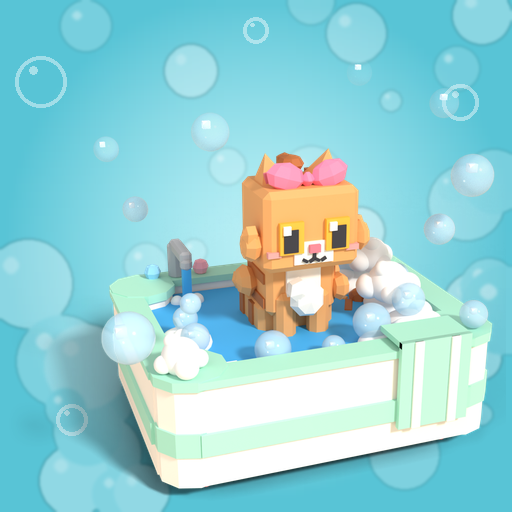
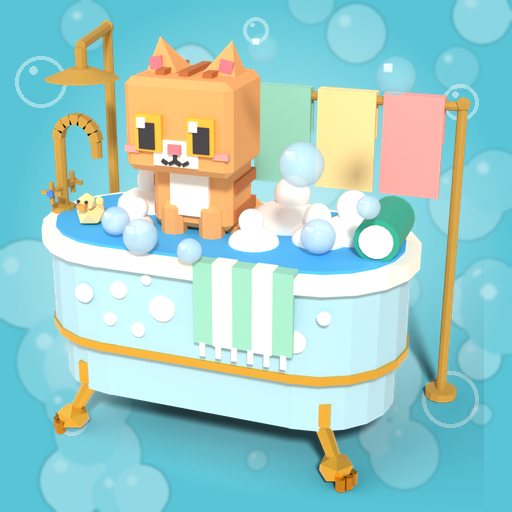
Store thumbnail: the ad picture's bath, blown up, with a plain cat (#116)
Derek: "the cat with ears looks weird and the towel and stuff from the
original ad picture in tub looked better try that just blown up".

thumb-spa now builds a store-art-only claw-foot bath ported from Derek's
own Bathtub Sofa in his asset library: the sky blue tub with a gold band,
the brass tap and rain shower, the duck and the striped towel, with three
towels on a brass rail and a rolled towel on the rim. A plain clean Muffin
sits in lather and soap bubbles. The bath fills more of the frame. The
icon is the same shot. Nothing is exported or uploaded.

Claude-Session: https://claude.ai/code/session_01DW2up3E6M21fYJtCcCtEdr

diff --git a/assets/clean-a-cat/blender/store_art.py b/assets/clean-a-cat/blender/store_art.py
@@ -29,7 +29,7 @@ import cats  # noqa: E402
 import spa_props  # noqa: E402
 import stations  # noqa: E402
 import tools  # noqa: E402
-from common import Builder  # noqa: E402
+from common import RB, Builder  # noqa: E402
 
 TUB_K = 1.5                       # the cat's ScaleTo at the tub
 stations.DETAIL = {"ball": (24, 14), "mound": (24, 10)}   # a close picture: round balls, as Roblox draws them
@@ -261,38 +261,151 @@ def icon_clean(mat, out, res):
     return render(objs, focus, out, res, az=-10, el=14, margin=1.14, lens=55)
 
 
+# ------------------------------------------------------------------ the claw-foot bath (store art only)
+# Derek's own Bathtub Sofa from his asset library (Roblox-Asset-Library, crate_decor.build_bathtub_sofa), the tub of
+# the ad picture he picked as the look (2026-11-23), filled as a bath: the same sky blue tub with a gold band,
+# painted bubbles, a rolled white rim and gold claw feet, the brass tap, the rain shower, the rubber duck and the
+# striped towel over the front. Its three cushions hang as towels on a brass rail behind and its bolster is a
+# rolled towel on the rim. Roblox axes (RB): x across, y up, -z the front.
+BATH_K = 1.3                      # the tub drawn this much bigger, so a 1.5 times cat sits in it with room
+BATH_CX, BATH_RIM, BATH_WATER = 0.9, 1.96, 1.99
+
+
+def _stadium(b, cx, y0, y1, r, sw, segments=20):
+    """A tub-shaped slab from y0 to y1: a box between two round ends centred at x = +-cx. The box keeps a hair
+    inside the ends all round, so no two faces share a plane."""
+    b.span((-cx, y0 + 0.002, -r + 0.003), (cx, y1 - 0.002, r - 0.003), sw)
+    for sx in (-1, 1):
+        b.cyl((sx * cx, (y0 + y1) / 2, 0), r, y1 - y0, sw, segments=segments)
+
+
+def _limb(b, p0, p1, r0, r1, sw, segments=8):
+    a, c = Vector(p0), Vector(p1)
+    d = c - a
+    turn = Vector((0, 1, 0)).rotation_difference(d.normalized()).to_matrix()
+    b.b.cyl(RB.p(*((a + c) / 2)), r0, d.length, sw, segments=segments, bevel=False, rot=RB._rot(turn), radius2=r1)
+
+
+def _arc(b, cx, cy, z, r, a0, a1, n, w, d, sw):
+    step = math.radians(abs(a1 - a0) / n)
+    length = 2 * r * math.sin(step / 2) * 1.06
+    for k in range(n):
+        t = math.radians(a0 + (a1 - a0) * (k + 0.5) / n)
+        b.box((cx + r * math.cos(t), cy + r * math.sin(t), z), (length, w, d), sw,
+              rot=Matrix.Rotation(t + math.pi / 2, 3, "Z"))
+
+
+def _rubber_duck(b, x, y, z, s, sw):
+    """A rubber duck sitting on y, looking toward -Z."""
+    b.ball((x, y + 0.2 * s, z + 0.03 * s), 0.27 * s, sw, scale=(1.0, 0.75, 1.2))
+    b.ball((x, y + 0.46 * s, z - 0.12 * s), 0.17 * s, sw)
+    b.box((x, y + 0.43 * s, z - 0.3 * s), (0.15 * s, 0.06 * s, 0.12 * s), "fur_orange")
+    for sx in (-1, 1):
+        b.cyl((x + sx * 0.075 * s, y + 0.51 * s, z - 0.28 * s), 0.03 * s, 0.03 * s, "fur_black", axis="Z", segments=6)
+    b.ball((x, y + 0.33 * s, z + 0.33 * s), 0.08 * s, sw, scale=(1.0, 1.3, 1.0))
+
+
+def _hung(b, x0, x1, rail_y, z, drop, sw, stripes=None):
+    """A towel folded over a rail or a rim at height rail_y and depth z: a long front fall and a short back one."""
+    b.span((x0, rail_y, z - 0.07), (x1, rail_y + 0.04, z + 0.07), sw)
+    b.span((x0, rail_y - drop, z - 0.07), (x1, rail_y, z - 0.03), sw)
+    b.span((x0, rail_y - drop * 0.45, z + 0.03), (x1, rail_y, z + 0.07), sw)
+    for k in (stripes or ()):
+        a, c = x0 + (x1 - x0) * k / 5, x0 + (x1 - x0) * (k + 1) / 5
+        b.span((a, rail_y - drop - 0.004, z - 0.078), (c, rail_y + 0.035, z - 0.03), "offwhite")
+        b.span((a, rail_y + 0.035, z - 0.078), (c, rail_y + 0.048, z + 0.078), "offwhite")
+
+
+def clawfoot_bath(mat):
+    """The bath of the ad picture, scaled by BATH_K: (objects, the water's height in studs)."""
+    b, wat, duck = RB(), RB(), RB()
+    CX = BATH_CX
+    _stadium(b, CX, 0.45, 1.0, 0.76, "pastel_sky")                                       # the tub, flaring out
+    _stadium(b, CX, 0.98, 1.84, 0.85, "pastel_sky")
+    _stadium(b, CX, 0.96, 1.04, 0.87, "gold_mid")                                         # a gold band at the flare
+    _stadium(b, CX, 1.82, BATH_RIM, 0.93, "offwhite")                                     # the rolled rim
+    for k, (x, y, r) in enumerate(((0.28, 1.48, 0.12), (0.52, 1.24, 0.07), (0.7, 1.6, 0.08), (0.42, 1.74, 0.05),
+                                   (0.8, 1.3, 0.06), (1.05, 1.52, 0.09), (-0.95, 1.36, 0.1), (-1.2, 1.62, 0.06))):
+        b.cyl((x, y, -0.86), r, 0.03, ("offwhite", "fish_belly")[k % 2], axis="Z", segments=16)   # painted bubbles
+    for sx in (-1, 1):                                                                     # claw feet
+        for sz in (-1, 1):
+            b.span((sx * 1.12 - 0.12, 0.5, sz * 0.62 - 0.1), (sx * 1.12 + 0.12, 0.72, sz * 0.62 + 0.1), "gold_mid")
+            _limb(b, (sx * 1.12, 0.55, sz * 0.62), (sx * 1.3, 0.2, sz * 0.72), 0.08, 0.06, "gold_mid")
+            b.ball((sx * 1.32, 0.13, sz * 0.74), 0.15, "gold_mid", scale=(1.15, 0.9, 1.15))
+            for k in (-1, 0, 1):                                                           # three toes
+                a = math.atan2(sz * 0.74, sx * 1.32) + 0.5 * k
+                b.cyl((sx * 1.32 + 0.15 * math.cos(a), 0.06, sz * 0.74 + 0.15 * math.sin(a)), 0.05, 0.12,
+                      "gold_dark", segments=6)
+    _stadium(wat, CX, BATH_RIM - 0.02, BATH_WATER, 0.79, "water")                         # full to the brim
+    _hung(b, -0.95, -0.05, BATH_RIM, -0.86, 0.72, "mint", stripes=(1, 3))                 # the striped towel
+    for k in range(6):                                                                    # its fringe
+        x = -0.95 + 0.08 + k * (0.9 - 0.16) / 5
+        b.span((x - 0.025, BATH_RIM - 0.84, -0.935), (x + 0.025, BATH_RIM - 0.71, -0.915), "offwhite")
+    b.cyl((-1.5, BATH_RIM + 0.2, 0.0), 0.2, 0.7, "sign_teal", axis="Z", segments=16)      # a rolled towel on the rim
+    for sz in (-1, 1):
+        b.cyl((-1.5, BATH_RIM + 0.2, sz * 0.36), 0.15, 0.02, "offwhite", axis="Z", segments=16)
+    # the brass gooseneck tap on the rim and its two handles
+    tx = 1.72
+    b.cyl((tx, 1.99, 0), 0.12, 0.06, "brass", segments=12)
+    b.cyl((tx, 2.35, 0), 0.06, 0.72, "brass", segments=10)
+    _arc(b, tx - 0.2, 2.7, 0, 0.2, 0, 180, 7, 0.1, 0.1, "brass")
+    b.cyl((tx - 0.4, 2.62, 0), 0.055, 0.16, "brass", segments=10)
+    for sz, cap in ((-1, "shirt_blue"), (1, "shirt_red")):
+        b.cyl((tx, 2.2, sz * 0.12), 0.04, 0.14, "brass", axis="Z", segments=6)
+        b.box((tx, 2.2, sz * 0.2), (0.22, 0.04, 0.04), "brass")
+        b.box((tx, 2.2, sz * 0.2), (0.04, 0.22, 0.04), "brass")
+        b.cyl((tx, 2.2, sz * 0.23), 0.04, 0.03, cap, axis="Z", segments=6)
+    # the rain shower: a brass stand behind the tap end, its rose over the bath
+    lx, lz = 1.7, 1.05
+    b.cyl((lx, 0.04, lz), 0.2, 0.08, "brass", segments=12)
+    top = 3.62                                                                            # shorter than the sofa's lamp
+    b.cyl((lx, top / 2 + 0.02, lz), 0.055, top - 0.04, "brass", segments=10)
+    b.ball((lx, top, lz), 0.08, "brass")
+    _limb(b, (lx, top, lz), (1.5, top - 0.04, 0.12), 0.055, 0.05, "brass")
+    b.cyl((1.5, top - 0.16, 0.12), 0.06, 0.2, "brass", segments=10)
+    b.cyl((1.5, top - 0.3, 0.12), 0.36, 0.1, "brass", r2=0.12, segments=20)
+    # a brass towel rail behind the tub with three towels (the ad picture's cushions)
+    ry, rz = 3.05, 1.12
+    for x in (0.3, -1.95):
+        b.cyl((x, 0.04, rz), 0.16, 0.08, "brass", segments=12)
+        b.cyl((x, ry / 2, rz), 0.05, ry, "brass", segments=10)
+        b.ball((x, ry + 0.02, rz), 0.08, "brass")
+    b.cyl((-0.825, ry, rz), 0.045, 2.25, "brass", axis="X", segments=10)
+    for x, sw in ((-0.2, "mint"), (-0.85, "pastel_butter"), (-1.5, "blush")):
+        _hung(b, x - 0.29, x + 0.29, ry + 0.045, rz, 0.95, sw)
+    _rubber_duck(duck, 0, 0, 0, 0.55, "pastel_butter")
+    objs = [b.finalize("StoreBath", mat), wat.finalize("StoreBath_Water", mat),
+            duck.finalize("StoreBath_Duck", mat, location=(1.25, BATH_WATER - 0.03, -0.3))]
+    for o in objs:
+        common.scale_mesh(o, BATH_K)
+        o.location = o.location * BATH_K
+    return _fresh(objs), BATH_WATER * BATH_K
+
+
 def thumb_spa(mat, out, res):
-    """The store thumbnail Derek picked the look of (2026-11-23): the whole tub, a clean fluffy Muffin with a bow in a
-    pile of foam, a striped towel over the rim, the sponge on the rim and bubbles rising. No mud."""
-    objs, cat, tub = tub_scene(mat, name="Muffin", state="clean", with_sponge=False, foam=False)
-    spec = cats.ROSTER["Muffin"]
-    k = cats.scale_of(spec, "sit")
-    bow = props.build_bow(list(props.BOWS)[0], mat)
-    at = Vector(cats.joints(spec, "sit")["Head"]) + Vector(cats.bow_at(spec, "sit")) * k
-    _move(bow, Vector((0, 0, stations.SEAT_Z)) + at * TUB_K, TUB_K)
-    objs += _fresh(bow)
+    """The store thumbnail (Derek 2026-11-23): the bath of his ad picture, blown up, with a clean Muffin sitting in
+    it: the claw-foot tub, the striped towel over the rim, towels on a rail, the duck, lather and soap bubbles. The
+    cat is plain (no fluff, no bow), so its ears and face read at a glance. No mud."""
+    tub, wz = clawfoot_bath(mat)
+    cx = -0.3                                             # the cat sits left of the middle, as in the ad picture
+    cat = cat_state("Muffin", mat, "sit", "plain", (cx, 0.12, wz - 0.48), TUB_K)
+    objs = tub + cat
     lo, hi = common.bounds(cat)
-    tlo, thi = common.bounds(tub)
-    top = stations.SEAT_Z + 0.9
-    # lather hugging the cat's sides and back, the water left open in front of it
-    objs += bubbles(mat, [(1.3, lo.y + 0.5, top, 0.5), (1.5, 0.55, top + 0.05, 0.45)], seed=11)
-    wz = stations.WATER_Z
-    objs += floating(mat, [(-0.7, lo.y - 0.3, wz + 0.2, 0.24), (0.1, lo.y - 0.4, wz + 0.14, 0.16),      # on the water
-                           (0.75, lo.y - 0.15, wz + 0.3, 0.26), (-1.55, -0.6, wz + 0.2, 0.2),
-                           (-2.6, lo.y - 0.9, hi.z - 1.6, 0.3), (2.1, lo.y - 0.2, hi.z - 0.3, 0.28),    # drifting up
-                           (1.5, lo.y - 0.4, hi.z + 0.7, 0.18), (-1.4, lo.y - 0.2, hi.z + 0.5, 0.22),
-                           (0.4, lo.y - 0.3, hi.z + 1.1, 0.15), (-2.4, 0.2, hi.z + 0.1, 0.16)])
-    rim = stations.RIM_Z + 0.14                           # the top of the rim's cap
-    tw = Builder()                                        # a mint towel with white stripes over the front rim
-    x, w = 1.25, 1.0
-    tw.box((x, tlo.y + 0.25, rim + 0.05), (w, 0.62, 0.08), "spa_mint", bevel=False)
-    tw.box((x, tlo.y - 0.03, rim - 0.52), (w, 0.08, 1.22), "spa_mint", bevel=False)
-    for dx in (-0.26, 0.26):
-        tw.box((x + dx, tlo.y - 0.08, rim - 0.52), (0.12, 0.04, 1.22), "offwhite", bevel=False)
-    objs += _fresh([tw.finalize("Towel", mat, bevel=0)])
-    objs += bubbles(mat, [(tlo.x + 0.4, tlo.y + 0.4, rim + 0.2, 0.4)], seed=13)
-    focus = cat + [o for o in tub if not o.name.endswith("_Bubbles")]     # the drifting bubbles may leave the frame
-    return render(objs, focus, out, res, az=-20, el=21, margin=1.1, lens=55)
+    fm = Builder()                                        # lather round the cat, the water open in front of it
+    for x, y, r in ((cx - 0.95, 0.45, 0.4), (cx + 0.95, 0.4, 0.46), (cx + 0.8, -0.4, 0.3), (cx - 0.8, -0.35, 0.28),
+                    (1.55, 0.25, 0.42), (cx + 1.5, -0.05, 0.34)):
+        stations.foam_mound(fm, x, y, wz - 0.02, r)
+    for x, y, z, r in ((cx - 0.9, 0.5, 0.2, 0.2), (cx + 1.0, 0.45, 0.22, 0.22), (cx + 0.75, -0.35, 0.14, 0.15),
+                       (1.5, 0.3, 0.2, 0.2), (cx + 1.45, 0.0, 0.16, 0.16), (cx - 0.72, -0.32, 0.14, 0.13)):
+        stations.foam_bubble(fm, x, y, wz + z, r)
+    objs += _fresh([common.shade_smooth(fm.finalize("Foam", mat, bevel=0))])
+    objs += floating(mat, [(cx - 0.3, lo.y - 0.28, wz + 0.2, 0.2), (cx + 0.35, lo.y - 0.4, wz + 0.15, 0.14),      # on the water
+                           (-1.1, -0.75, wz + 0.2, 0.17), (1.3, -0.5, wz + 0.22, 0.2),
+                           (cx + 1.55, lo.y - 0.2, hi.z - 1.1, 0.24),   # drifting up
+                           (cx + 1.15, lo.y - 0.3, hi.z + 0.1, 0.15), (2.1, -0.6, hi.z - 0.2, 0.2),
+                           (1.9, -0.7, hi.z - 1.6, 0.13)])
+    focus = [o for o in objs if "Bubbles" not in o.name]     # the drifting bubbles may leave the frame
+    return render(objs, focus, out, res, az=20, el=20, margin=1.06, lens=55)
 
 
 def thumb_scrub(mat, out, res):

diff --git a/assets/clean-a-cat/blender/store_compose.py b/assets/clean-a-cat/blender/store_compose.py
@@ -290,8 +290,8 @@ def compose_spa(raw_dir, final=False):
     w, h = size
     bg = bubble_backdrop(size)
     art = soft_shadow_edges(crop_to_content(Image.open(os.path.join(raw_dir, "raw-thumb-spa.png")).convert("RGBA")))
-    art = fit(art, w * 0.58, h * 0.97)
-    bg.alpha_composite(art, (int(w * 0.985 - art.width), int(h * 0.99 - art.height)))
+    art = fit(art, w * 0.6, h * 0.97)                     # the bath as big as the frame allows (Derek: "blown up")
+    bg.alpha_composite(art, (int(w * 0.99 - art.width), int(h * 0.99 - art.height)))
     title = title_block(int(w * 0.44))
     title = fit(title, w * 0.47, h * 0.9)
     bg.alpha_composite(title, (int(w * 0.235 - title.width / 2), int(h * 0.5 - title.height / 2)))

diff --git a/docs/concepts/clean-a-cat/README.md b/docs/concepts/clean-a-cat/README.md
@@ -32,7 +32,7 @@ HUD source page: `assets/clean-a-cat/ui/hud.html`. Plans: issues #5 (first sessi
 - `2026-11-23-store-art-draft.png`: the store art draft for Derek's pick (#24). It has three icons (A the scrub, B the whole cat with CLEAN A CAT, C clean and fluffy) and three thumbnails (scrubbing at the tub and muddy to fluffy, both with CLEAN A CAT, and your spa at work). The only words are the game's name. Each is shown at 150 px, and each icon also at 48 px. Common cats only. 2026-11-23.
 - `2026-11-23-plot-real-street.png`, `-window.png`, `-entrance.png`, `-player.png` and `-top.png`: the real spa plot (#15), dressed as in the graybox shots, from the same five spots. It has a bubblegum shop front under a striped awning, a flower box and plants outside, a checked floor with a rug under the tub, lamps, a towel shelf, a clock and a paw poster inside, and a grassy fenced yard behind. Roof hidden in the top, player and entrance shots. 2026-11-23.
 - `2026-11-23-street-wide.png` and `2026-11-23-street-pavement.png`: the street (#15) with six empty plots 44 studs apart, from above the road and from the pavement. It shows the road, the far pavement with pastel town houses, and the hedge and trees behind. 2026-11-23.
-- `2026-11-24-store-thumbnail.png` (1920 x 1080) and `2026-11-24-store-icon.png` (512): the store art Derek picked for now, in the look of his reference. The thumbnail has a chunky stacked CLEAN A CAT title in lilac and pink with a purple outline over a teal bubble backdrop, with a clean, fluffy Muffin in the tub on the right, in deep blue water with the tap running, white lather and clear soap bubbles (#111). The icon is the same tub shot with no words. No mud. These are placeholders until the design is locked. 2026-11-24.
+- `2026-11-24-store-thumbnail.png` (1920 x 1080) and `2026-11-24-store-icon.png` (512): the store art Derek picked for now, in the look of his reference. The thumbnail has a chunky stacked CLEAN A CAT title in lilac and pink with a purple outline over a teal bubble backdrop. On the right is the bath of his ad picture, as big as the frame allows (#116): his own Bathtub Sofa from the asset library filled as a bath, a sky blue claw-foot tub with a gold band, the brass tap and rain shower, the rubber duck, the striped towel over the rim, three towels on a brass rail and a rolled towel, with a plain clean Muffin sitting in lather and soap bubbles. The icon is the same shot with no words. No mud. The tub is store art only and is not the game's wash tub. These are placeholders until the design is locked. 2026-11-24.
 - `2026-11-24-mud-foam-before-after.png`: the mud and foam remodel (#107) as close-ups, before above after. Mud went from squashed balls to flat pixel splats fitted to each fur face, in two shades with a drip. Foam went from loose faceted puffs to tidy piles of round bubbles. The store thumbnail and icon above were rendered again with the new foam. 2026-11-24.
 - `2026-11-24-baths-mud-before-after.png`: the second pass on mud and baths (#111), before above after. Mud went from raised blocks to thin smears turned off the cat's straight lines. The baths got deep blue water to just under the rim, a running tap on the tub and clear soap bubbles with a white glint on low white lather. The store thumbnail and icon, the tub scene and the station pictures above were rendered again with this look. 2026-11-24.
 - `2026-11-24-mud-coat-before-after.png`: the third pass on mud (#113), before above after and from behind. Mud went from smears laid on the fur to a coat built into it: pieces that wrap the cat's own blocks, flush like its stripes. The tub scene, the customers sheet and the dirty cat previews were rendered again with this look. 2026-11-24.

diff --git a/assets/clean-a-cat/blender/README.md b/assets/clean-a-cat/blender/README.md
@@ -38,7 +38,7 @@ Flags: `--only Smudge,Tux` (name fragments; a partial build leaves the manifest 
 | `build_props.py` | the builder kitten (#20): the kitten in its own coat with `HatSlot` and `HammerGrip`, the hard hat, the hammer pivoted at its grip and the toolbox with `CountdownAnchor` |
 | `vip.py` | the VIP Room before it is built (#21): the locked look (door, sign `Screen`, tarp over scaffold) and the building look (frame half up) at `SpotVipDoor` |
 | `coat_table.py` | the coat table (#22): `rbx/CleanACat_CoatTable.json`, read in game as `ReplicatedStorage.Assets.CleanACat_CoatTable` (rarity, index order, colours and model names per cat) |
-| `store_art.py` | store art (#24): the raw icon and thumbnail shots from the real models, with a see-through background and shadows (`store_art.py <folder> [names] [--final]`) |
+| `store_art.py` | store art (#24): the raw icon and thumbnail shots from the real models, with a see-through background and shadows (`store_art.py <folder> [names] [--final]`); `thumb-spa` is the picked thumbnail and uses a store-art-only claw-foot bath ported from Derek's Bathtub Sofa (#116) |
 | `store_compose.py` | store art (#24), plain Python with Pillow: backdrops, the game's name as the only words, the 512 icon and 1280 or 1920 thumbnails, and the draft sheet with 150 and 48 px checks; `compose_spa` makes the picked look (stacked title, bubble backdrop; title font Lilita One, OFL, via `TITLE_FONT`) |
 | `customers.py` | the customers' accessories for the R15 rig and the four looks (`LOOKS`, #16) |
 | `props.py` | the three bows (#14) with their `BowSlot` attachment, and the hook for props built into a cat (the builder's hat, #20) |
